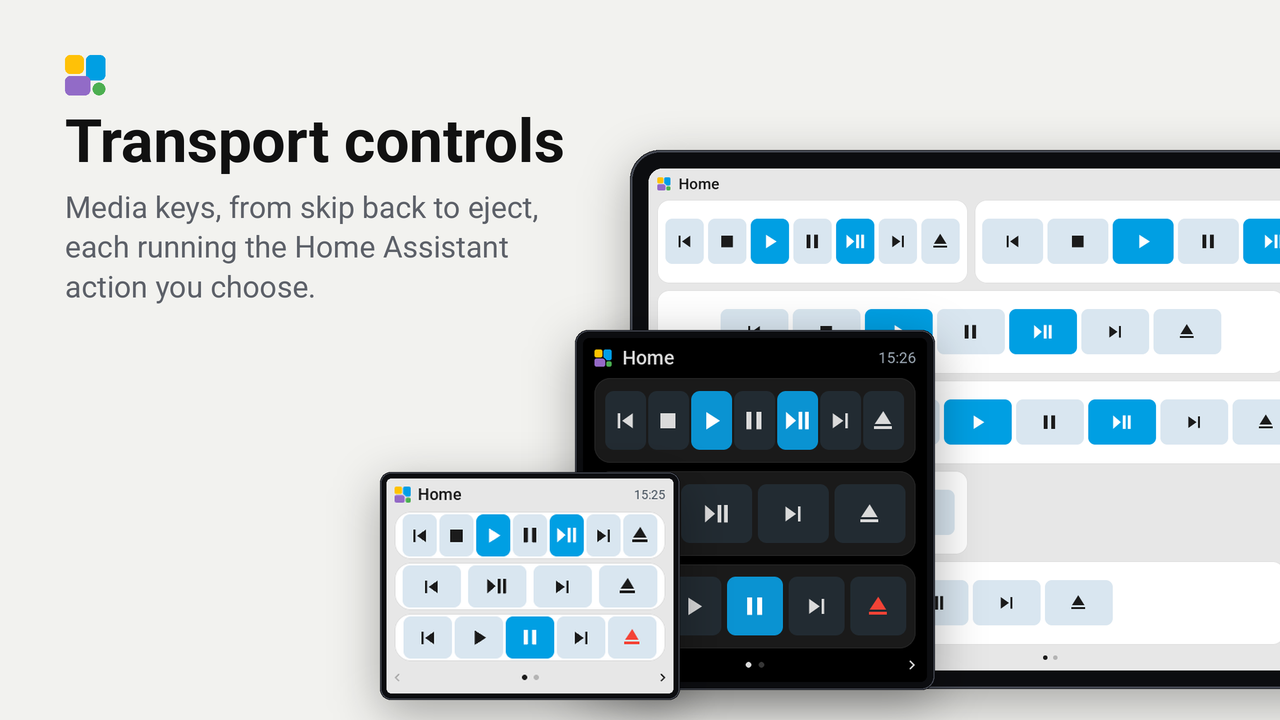
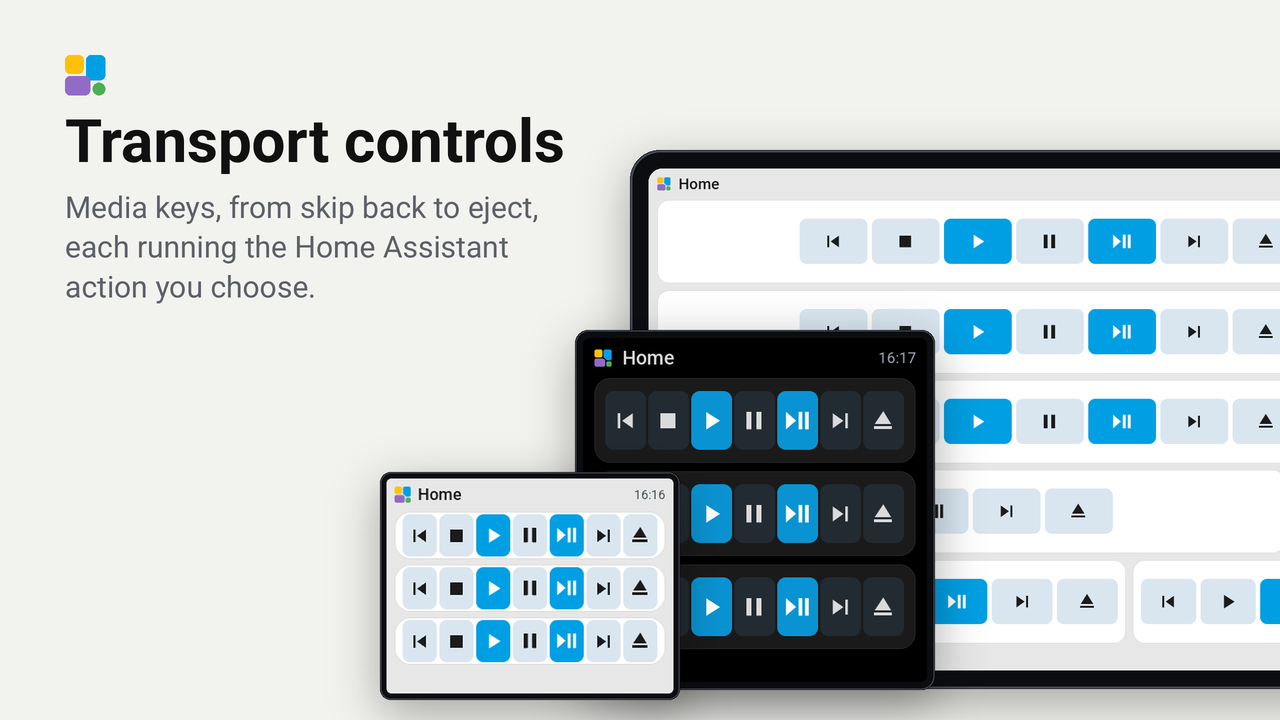
0.2.0 Allow 1x1 tile

diff --git a/components/transport_controls/transport_controls.cpp b/components/transport_controls/transport_controls.cpp
@@ -97,18 +97,41 @@ class KeysTile : public tessera::Tile {
       return;
     }
 
-    // As wide as the room allows, never wider than half again their height, at most 12 mm high: a finger's key on a
-    // small screen, not a slab on a large one. The gap narrows before the keys do.
-    gap_ = ui::px(8);
-    int slot = (c.width - gap_ * (count_ - 1)) / count_;
-    if (slot < ui::mm(9) && count_ > 1) {
-      gap_ = ui::px(3);
-      slot = (c.width - gap_ * (count_ - 1)) / count_;
+    // The keys in one row where each is at least a finger wide (7 mm), else in two or three rows, the last row holding
+    // what is left; where nothing reaches 7 mm, the rows that give the largest keys. A key is never wider than half again
+    // its height, nor higher than 12 mm: a finger's key on a small screen, not a slab on a large one. The gap narrows
+    // before the keys do.
+    int best = -1;
+    for (int r = 1; r <= 3 && r <= count_; ++r) {
+      const int per = (count_ + r - 1) / r;
+      int gap = ui::px(8);
+      int slot = (c.width - gap * (per - 1)) / per;
+      int high = (c.height - gap * (r - 1)) / r;
+      if ((slot < ui::mm(9) || high < ui::mm(9)) && (per > 1 || r > 1)) {
+        gap = ui::px(3);
+        slot = (c.width - gap * (per - 1)) / per;
+        high = (c.height - gap * (r - 1)) / r;
+      }
+      const int kh = std::max(1, std::min(high, ui::mm(12)));
+      const int kw = std::max(1, std::min(slot, kh * 3 / 2));
+      const int size = std::min(kw, kh);
+      const bool fits = size >= ui::mm(7);
+      if (best < 0 || fits || size > best) {
+        best = size;
+        rows_ = r;
+        per_ = per;
+        gap_ = gap;
+        kw_ = kw;
+        kh_ = kh;
+      }
+      if (fits) break;
     }
-    const int kh = std::max(1, std::min(c.height, ui::mm(12)));
-    kw_ = std::max(1, std::min(slot, kh * 3 / 2));
-    left_ = (c.width - (count_ * kw_ + (count_ - 1) * gap_)) / 2;
-    const int top = (c.height - kh) / 2;
+    top_ = (c.height - (rows_ * kh_ + (rows_ - 1) * gap_)) / 2;
+    for (int r = 0; r < rows_; ++r) {
+      const int in_row = std::min(per_, count_ - r * per_);
+      row_left_[r] = (c.width - (in_row * kw_ + (in_row - 1) * gap_)) / 2;
+    }
+    const int kh = kh_;
     const int radius = std::min({ui::px(ui::large() ? 12 : 8), kw_ / 2, kh / 2});
 
     // The largest icon that leaves the key a margin.
@@ -121,7 +144,7 @@ class KeysTile : public tessera::Tile {
       Key &key = keys_[i];
       key.block = ui::block(c.parent, theme::BUTTON);
       lv_obj_set_size(key.block, kw_, kh);
-      lv_obj_set_pos(key.block, left_ + i * (kw_ + gap_), top);
+      lv_obj_set_pos(key.block, row_left_[i / per_] + (i % per_) * (kw_ + gap_), top_ + (i / per_) * (kh_ + gap_));
       lv_obj_set_style_radius(key.block, radius, 0);
       if (KINDS[key.kind].glyph) {
         key.icon = ui::label(key.block, face, theme::INK);
@@ -185,14 +208,17 @@ class KeysTile : public tessera::Tile {
     lv_obj_t *block = nullptr, *icon = nullptr;
   };
 
-  // The key under the finger: its own width and half the gap on either side, so a tap between two keys still counts.
+  // The key under the finger: its own size and half the gap around it, so a tap between two keys still counts. A tap
+  // above or below the rows counts for the nearest row.
   int key_at(tessera::Point p) const {
     if (count_ == 0) return -1;
-    if (p.x < 0) return count_ == 1 ? 0 : -1;
-    const int x = p.x - left_ + gap_ / 2;
+    if (p.x < 0 || p.y < 0) return count_ == 1 ? 0 : -1;
+    const int row = std::max(0, std::min(rows_ - 1, (p.y - top_ + gap_ / 2) / (kh_ + gap_)));
+    const int x = p.x - row_left_[row] + gap_ / 2;
     if (x < 0) return -1;
-    const int i = x / (kw_ + gap_);
-    return i < count_ ? i : -1;
+    const int col = x / (kw_ + gap_);
+    const int i = row * per_ + col;
+    return col < per_ && i < count_ ? i : -1;
   }
 
   // Whether the player's state is what this key does: playing lights play and play/pause, paused lights pause.
@@ -230,7 +256,8 @@ class KeysTile : public tessera::Tile {
   const tessera::Plugin *plugin_;
   Key keys_[KIND_COUNT];
   int count_ = 0;
-  int left_ = 0, kw_ = 1, gap_ = 0;
+  int rows_ = 1, per_ = 1, top_ = 0, kw_ = 1, kh_ = 1, gap_ = 0;
+  int row_left_[3] = {0, 0, 0};
   char entity_[128] = "";
   char state_[32] = "";
   bool player_ = false;

diff --git a/README.md b/README.md
@@ -5,14 +5,15 @@ the Home Assistant action you give it, so the same tile drives a media player, a
 anything a script can reach.
 
 Give a key an action and it appears; leave it empty and it is left out. The keys always keep this order and sit together
-in the middle of the tile. The tile is two cells wide at least and grows as wide as the page, but never taller than one
-row.
+in the middle of the tile. The tile is one cell at least and grows as wide as the page, but never taller than one row.
+On a tile too narrow for the keys side by side, they wrap onto two or three rows.
 
 ## Set up
 
 1. In Tessera, open **Plugins**, choose **Transport controls** and tick your screens. Each screen builds once with the
    plugin.
-2. In Layout, place the **Transport controls** tile from the library's Plugins group, two cells wide or more.
+2. In Layout, place the **Transport controls** tile from the library's Plugins group. Widen it by its edge for larger
+   keys in one row.
 3. In the inspector, choose the entity the keys act on: a media player, a remote, a script and so on.
 4. Type an action for each key you want, for example:
 
@@ -50,8 +51,8 @@ script.<its name>`.
   the screen may not perform actions).
 - With a media player as the tile's entity, the key of what it does is lit: play and play/pause while it plays, pause
   while it is paused. The icons go grey while the entity is unavailable.
-- Works on every board, the CYD included. On a small screen with all seven keys in two cells, the icons get smaller;
-  make the tile wider to give them more room.
+- Works on every board, the CYD included. On a single cell, or with all seven keys on a small screen, the keys wrap
+  onto more rows or get smaller; make the tile wider to give them more room.
 
 ## Good to know
 
@@ -62,9 +63,9 @@ script.<its name>`.
 
 ## How it works
 
-- `tessera-plugin.yaml`: one tile, `keys`, 2x1 to 9x1, that belongs to an entity of the domains it acts on, with one
+- `tessera-plugin.yaml`: one tile, `keys`, 1x1 to 9x1, that belongs to an entity of the domains it acts on, with one
   text option per key.
 - `components/transport_controls/transport_command.h`: reads a key's text into an action, a target and a field.
-- `components/transport_controls/transport_controls.cpp`: lays the keys out in the middle of the tile, finds the key
+- `components/transport_controls/transport_controls.cpp`: lays the keys out in the middle of the tile, in up to three rows, finds the key
   under the finger (`tessera::tap_point`) and sends its action (`tessera::action`). The eject symbol is not in
   Tessera's icon set, so its key draws Material Design's eject itself.

diff --git a/CHANGELOG.md b/CHANGELOG.md
@@ -1,5 +1,10 @@
 # Changelog
 
+## 0.2.0
+- The tile can now be a single cell. When the keys do not fit side by side at a finger's width, they wrap onto two or
+  three rows. Wider tiles keep one row.
+- A tile placed at 1x1 can now be widened by dragging its edge, also on a screen with two columns.
+
 ## 0.1.0
 - First version: a tile of media keys (skip back, stop, play, pause, play/pause, skip forward, eject), each running the
   Home Assistant action you give it. Keys without an action are left out.
